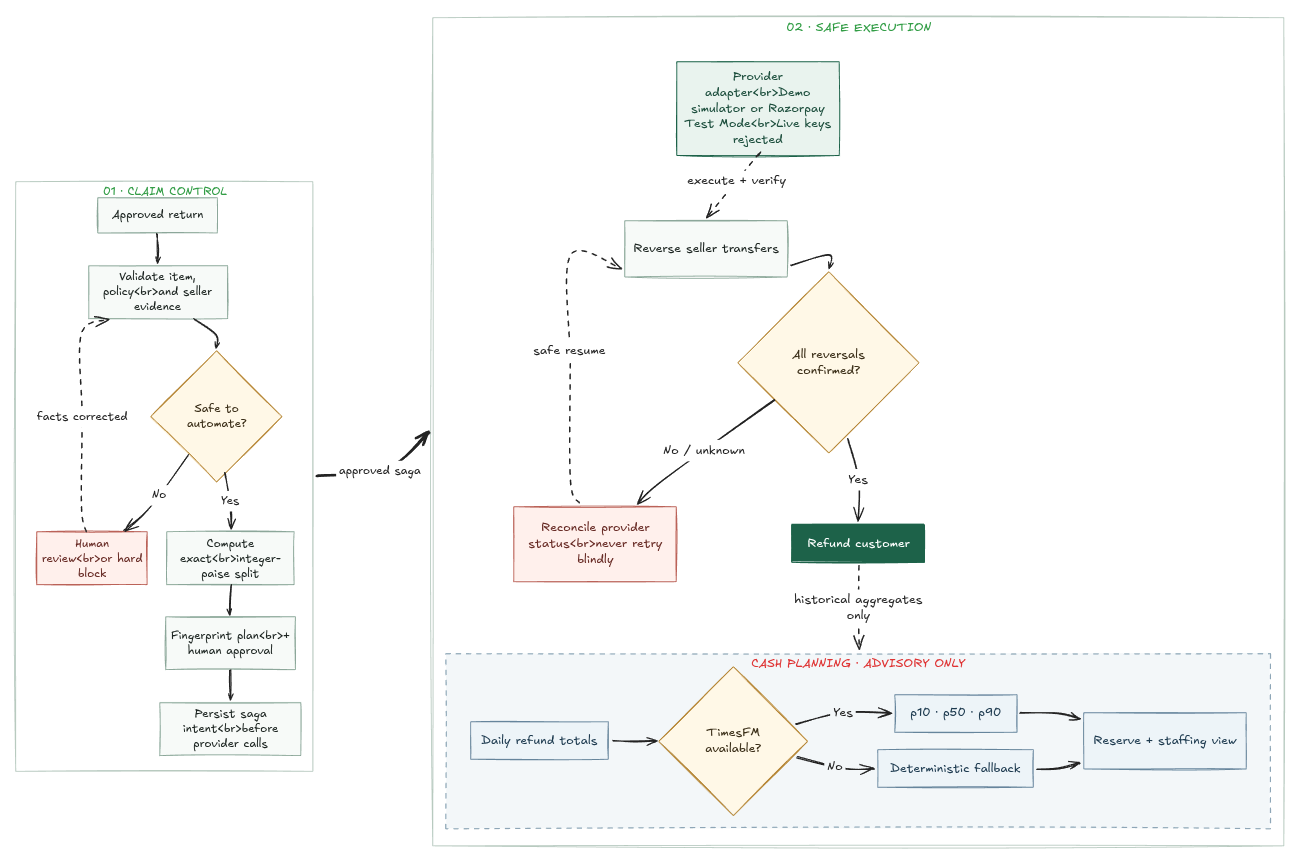
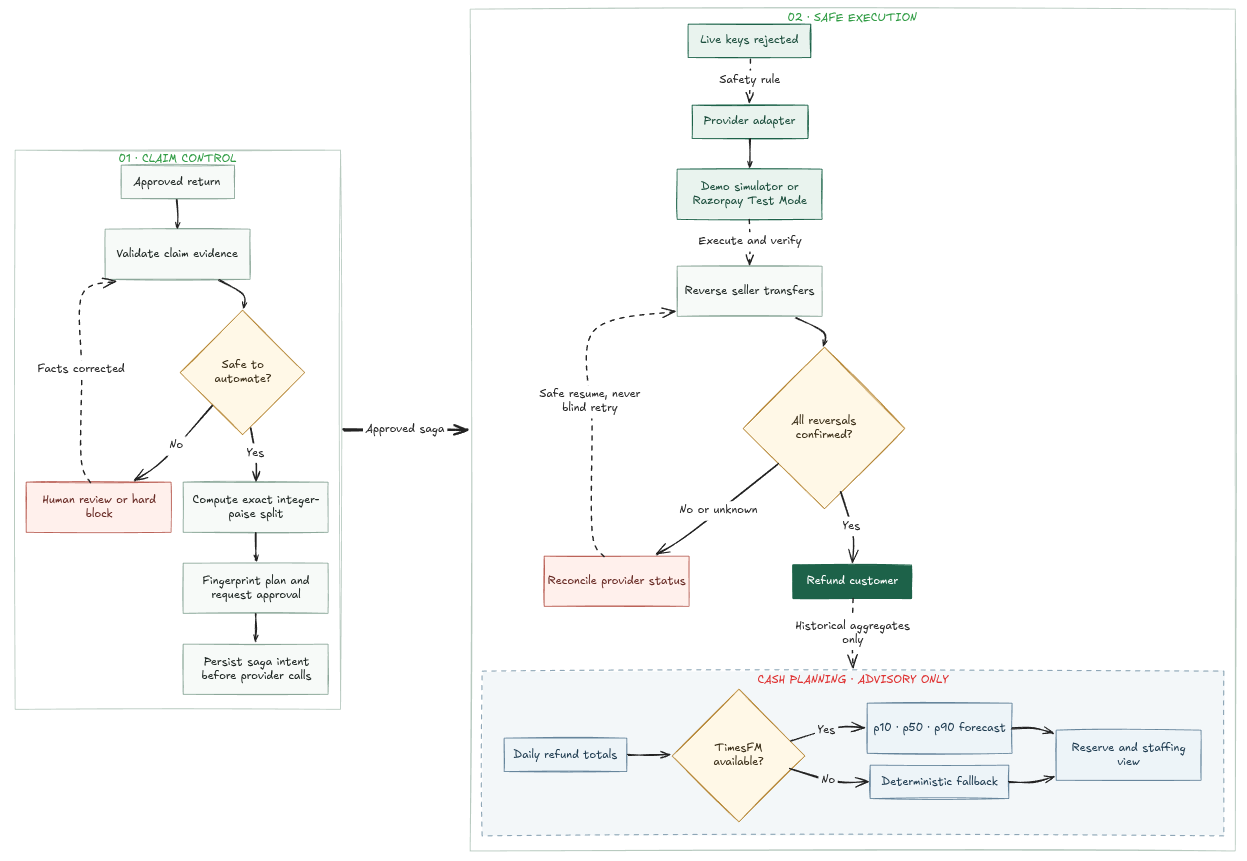
docs: add landing and architecture visuals

diff --git a/README.md b/README.md
@@ -8,6 +8,8 @@ ReturnSplit is a financial-control workbench for that gap. It starts **after a r
 
 **Razorpay AI Buildathon 2026 submission · Track 04 — AI Finance Controller**
 
+[![ReturnSplit landing page showing the partial-refund control workbench](docs/screenshots/landing-overview.png)](https://returnsplit-razorpay-hackathon.vercel.app)
+
 ## Working workflow
 
 The default demo runs this complete loop with deterministic, process-local state:
